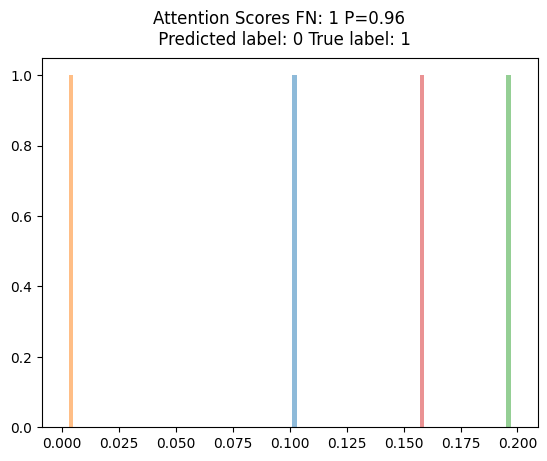
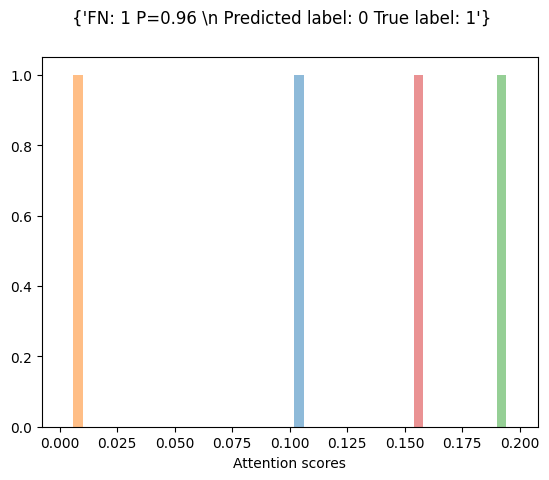
update tests

Changed region(s): [[0.0, 0.1215, 0.9945, 1.0], [0.0932, 0.0, 0.9634, 0.1215]]

diff --git a/hi-ml-cpath/src/health_cpath/utils/viz_utils.py b/hi-ml-cpath/src/health_cpath/utils/viz_utils.py
@@ -10,6 +10,7 @@ import numpy as np
 import matplotlib.pyplot as plt
 import matplotlib.patches as patches
 import matplotlib.collections as collection
+from matplotlib.gridspec import GridSpec
 
 from math import ceil
 from pathlib import Path
@@ -174,15 +175,22 @@ def plot_heatmap_overlay(
     :param should_upscale_coords: If True, upscales the heatmap coordinates to the slide level. Default True.
     :return: matplotlib figure of the heatmap of the given tiles on slide.
     """
-    fig, ax = plt.subplots()
+    gs = GridSpec(nrows=4, ncols=2, width_ratios=(1, .02))
+    fig = plt.figure()
+    ax0 = fig.add_subplot(gs[0:2, 0])
+    ax1 = fig.add_subplot(gs[2:4, 0], sharex=ax0)
+    cax = fig.add_subplot(gs[2:4, 1])
     fig.suptitle(_get_histo_plot_title(case, slide_node))
+
     slide_image = slide_dict[SlideKey.IMAGE]
     assert isinstance(slide_image, np.ndarray), f"slide image must be a numpy array, got {type(slide_image)}"
     slide_image = slide_image.transpose(1, 2, 0)
 
-    ax.imshow(slide_image)
-    ax.set_xlim(0, slide_image.shape[1])
-    ax.set_ylim(slide_image.shape[0], 0)
+    for ax in (ax0, ax1):
+        ax.imshow(slide_image)
+        ax.set_xlim(0, slide_image.shape[1])
+        ax.set_ylim(slide_image.shape[0], 0)
+        ax.set_xticks([])
 
     slide_ids = [item[0] for item in results[ResultsKey.SLIDE_ID]]
     slide_idx = slide_ids.index(slide_node.slide_id)
@@ -203,8 +211,8 @@ def plot_heatmap_overlay(
 
     pc = collection.PatchCollection(rects, match_original=True, cmap=cmap, alpha=0.5, linewidth=0)
     pc.set_array(np.array(attentions))
-    ax.add_collection(pc)
-    plt.colorbar(pc, ax=ax)
+    ax1.add_collection(pc)
+    plt.colorbar(pc, cax=cax)
     return fig
 
 
@@ -220,8 +228,9 @@ def plot_attention_histogram(case: str, slide_node: SlideNode, results: Dict[Res
     slide_idx = slide_ids.index(slide_node.slide_id)
     attentions = results[ResultsKey.BAG_ATTN][slide_idx]
     fig, ax = plt.subplots()
-    fig.suptitle(f"Attention Scores {_get_histo_plot_title(case, slide_node)}")
-    ax.hist(attentions.cpu().numpy(), alpha=0.5, bins=20)
+    ax.set_xlabel("Attention scores")
+    fig.suptitle({_get_histo_plot_title(case, slide_node)})
+    ax.hist(attentions.cpu().numpy(), alpha=0.5)
     return fig
 
 

diff --git a/hi-ml-cpath/testhisto/testhisto/utils/test_viz_utils.py b/hi-ml-cpath/testhisto/testhisto/utils/test_viz_utils.py
@@ -20,7 +20,7 @@ from torch.functional import Tensor
 from health_ml.utils.common_utils import is_gpu_available, is_windows
 from health_ml.utils.fixed_paths import OutputFolderForTests
 from health_cpath.utils.viz_utils import (
-    plot_attention_histogram, plot_attention_tiles, plot_scores_hist,resize_and_save, plot_slide,
+    plot_attention_histogram, plot_attention_tiles, plot_scores_hist, resize_and_save, plot_slide,
     plot_heatmap_overlay, plot_normalized_confusion_matrix
 )
 from health_cpath.utils.naming import ResultsKey, SlideKey
@@ -226,7 +226,7 @@ def test_plot_slide(
     assert file.exists()
     expected = full_ml_test_data_path("histo_heatmaps") / f"slide_{scale}_{case}.png"
     # To update the stored results, uncomment this line:
-    expected.write_bytes(file.read_bytes())
+    # expected.write_bytes(file.read_bytes())
     assert_binary_files_match(file, expected)
 
 
@@ -252,7 +252,7 @@ def test_plot_heatmap_overlay(test_output_dirs: OutputFolderForTests) -> None:
     assert file.exists()
     expected = full_ml_test_data_path("histo_heatmaps") / "heatmap_overlay.png"
     # To update the stored results, uncomment this line:
-    expected.write_bytes(file.read_bytes())
+    # expected.write_bytes(file.read_bytes())
     assert_binary_files_match(file, expected)
 
 
